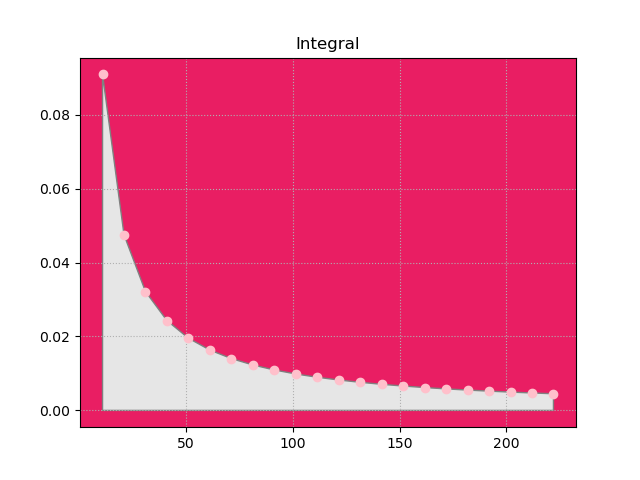
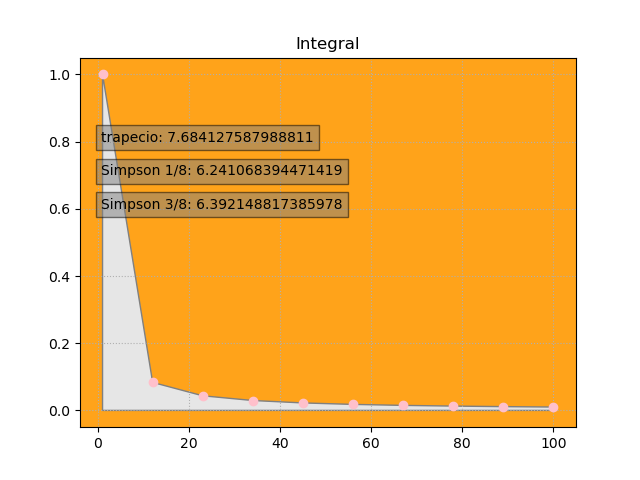
NO STEPBRO

diff --git a/templates/index.html b/templates/index.html
@@ -13,27 +13,35 @@
     }
 
     button {
-      background-color: #66bb6a;
+      background-color: #ffa31a;
       font-weight: 500;
       font-size: xx-large;
       text-decoration: wavy;
-      border-radius: 5%;
+      border-radius: 25px;
       padding: 50px;
       width: 100%;
       height: auto;
 
     }
     button:hover{
-      background-color: #69F0AE;
-color:#e91e63;
+      background-color: 	#808080;
+color: 	#ffa31a;
     }
 
     h1 {
-      color: #e91e63;
+      display: block;
+      justify-content: center;
+width: 50%;
+margin-left: 25%;
+margin-right: 25%;
+      color:  	#212121;
+      background-color: #ffa31a;
+      border-radius: 25px;
+  
     }
     input{
             font-weight: 200;
-      border-radius: 5%;
+      border-radius: 25px;
       padding: 10px;
       width: auto;
       height: auto;

diff --git a/main.py b/main.py
@@ -67,14 +67,14 @@ def integral_plot(f, a, b, N):
     x = np.linspace(a, b, num=N)
     y = f(x)
     fig, ax = plt.subplots()
-    ax.set_facecolor('#e91e63')
+    ax.set_facecolor('#ffa31a')
     ax.plot(x, y, 'ro', linewidth=3, color='pink')
     ax.text(.7, 0.8, f'trapecio: {temptrap}',
-            bbox=dict(facecolor='#e91e63', alpha=0.5))
+            bbox=dict(facecolor='#808080', alpha=0.5))
     ax.text(.7, 0.7, f'Simpson 1/8: {temp18}',
-            bbox=dict(facecolor='#e91e63', alpha=0.5))
+            bbox=dict(facecolor='#808080', alpha=0.5))
     ax.text(.7, 0.6, f'Simpson 3/8: {temp38}',
-            bbox=dict(facecolor='#e91e63', alpha=0.5))
+            bbox=dict(facecolor='#808080', alpha=0.5))
     plt.grid(True, linestyle=':')
     plt.title(f'Integral')
     plt.plot(legend=f'x:[{x}]')    # Make the shaded region
